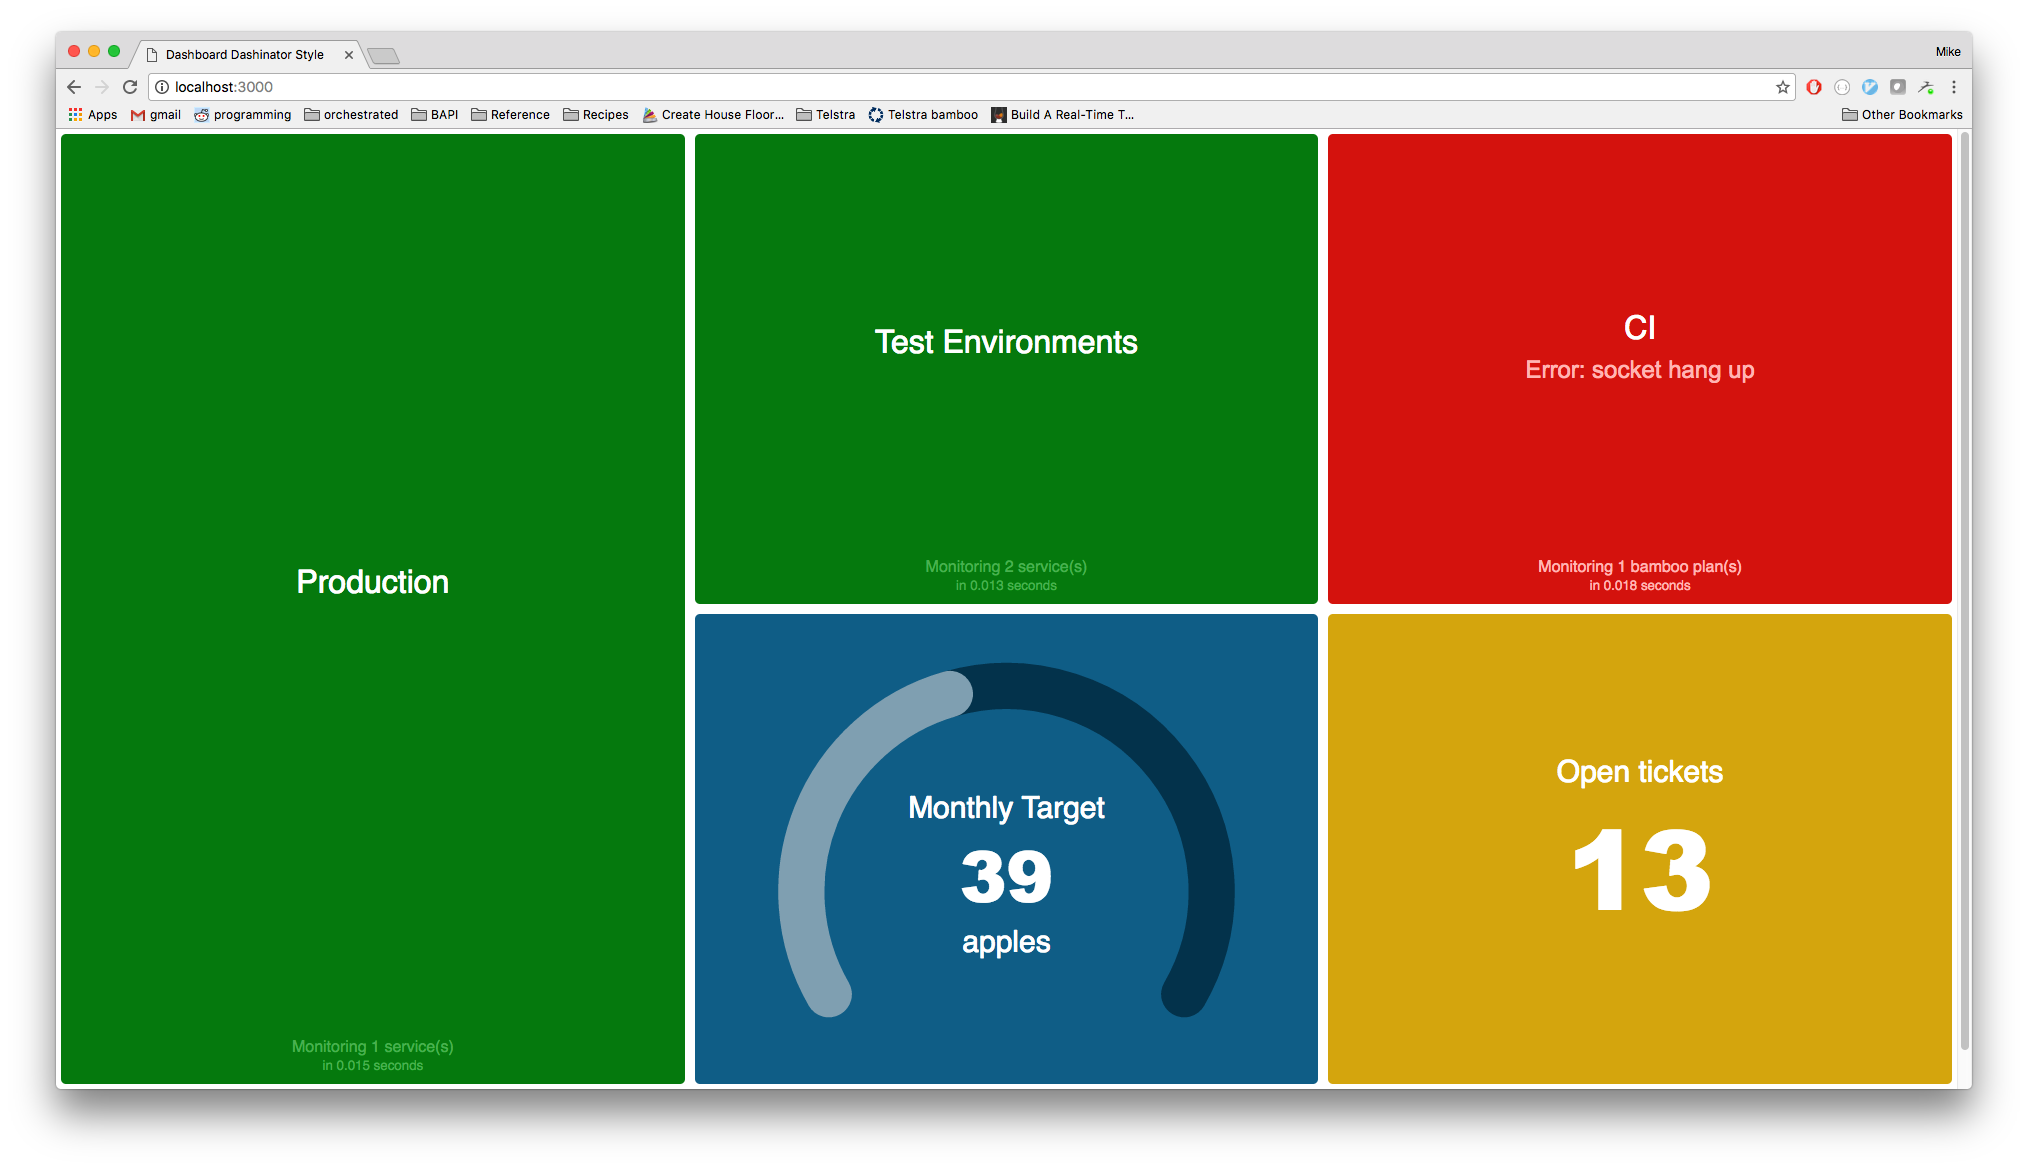
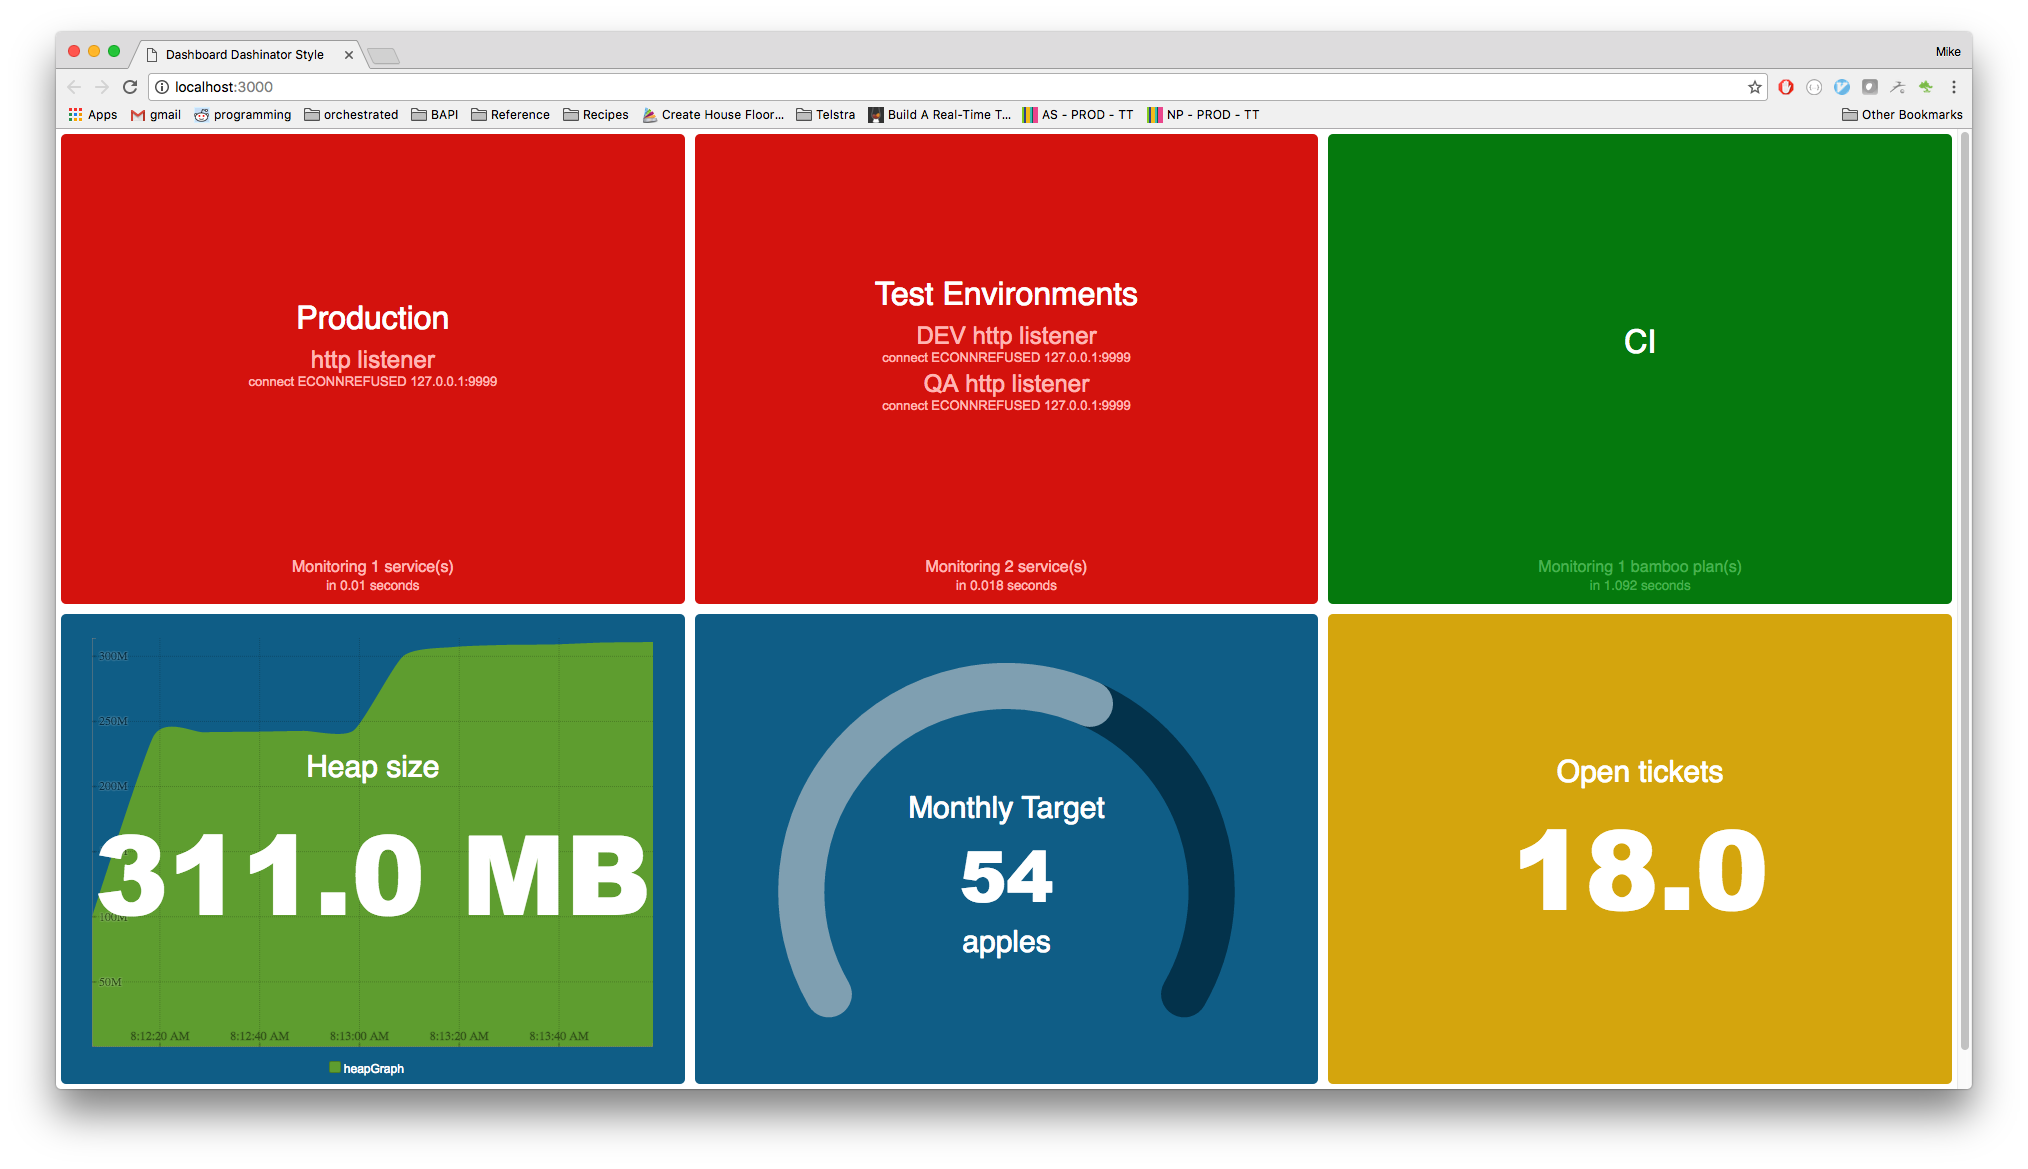
Updated screen shot

diff --git a/common/components/Dashboard.js b/common/components/Dashboard.js
@@ -12,7 +12,7 @@ const Dashboard = ({ connection, testEnvs, production, ci, kitchenSink, heapGrap
         <FailureList name='Production' state={ production } />
         { kitchenSink &&
             <RickshawGraph
-            name='Elapsed Job time'
+            name='Heap size'
             series={[{ name: 'heapGraph', data: heapGraph.data }]}
             formatString='0.0 b'/>
         }
